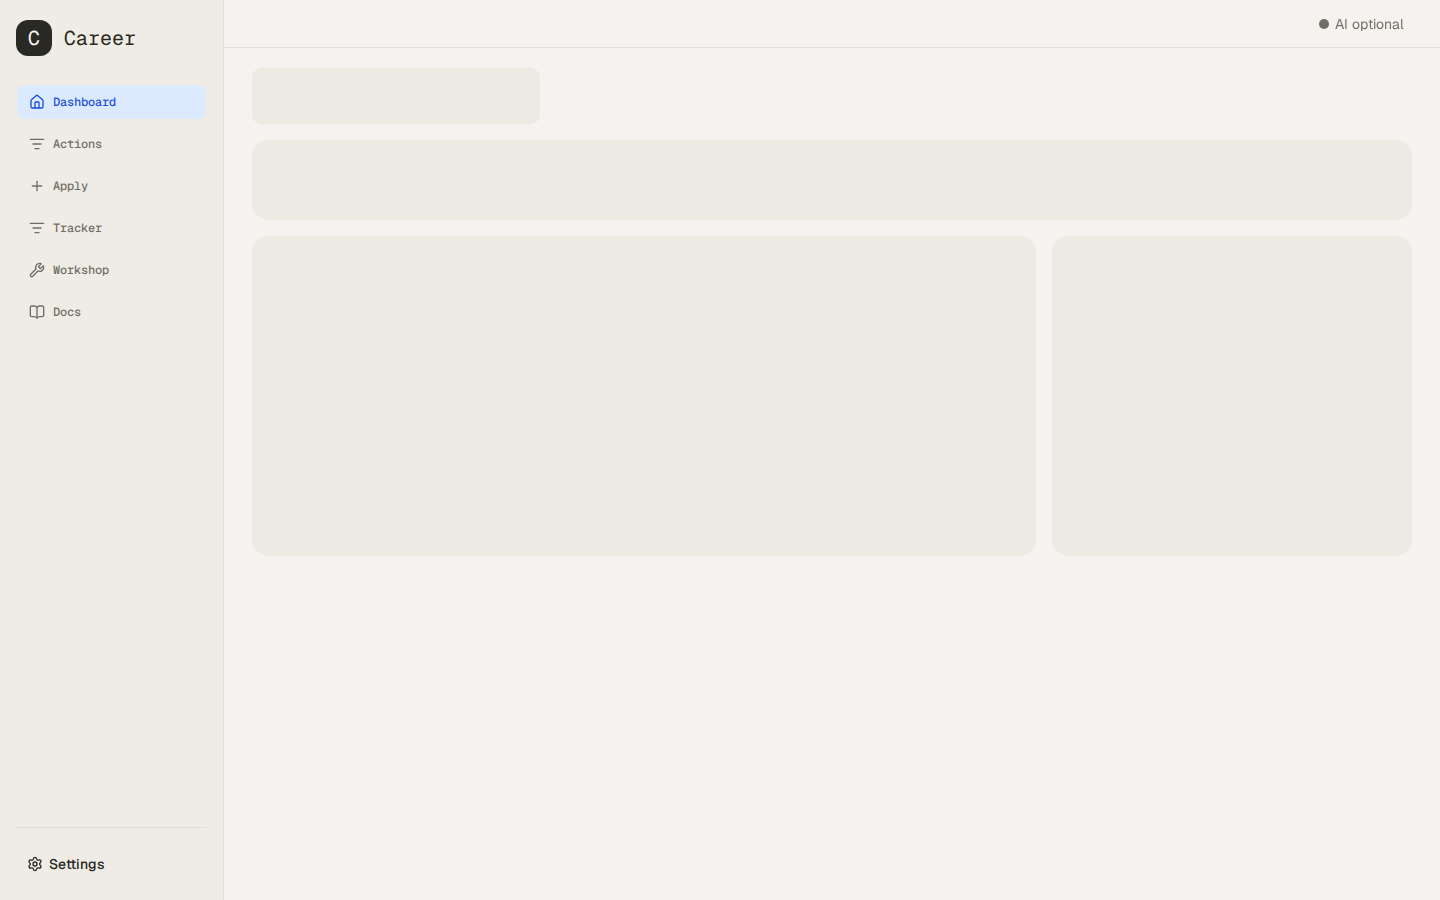
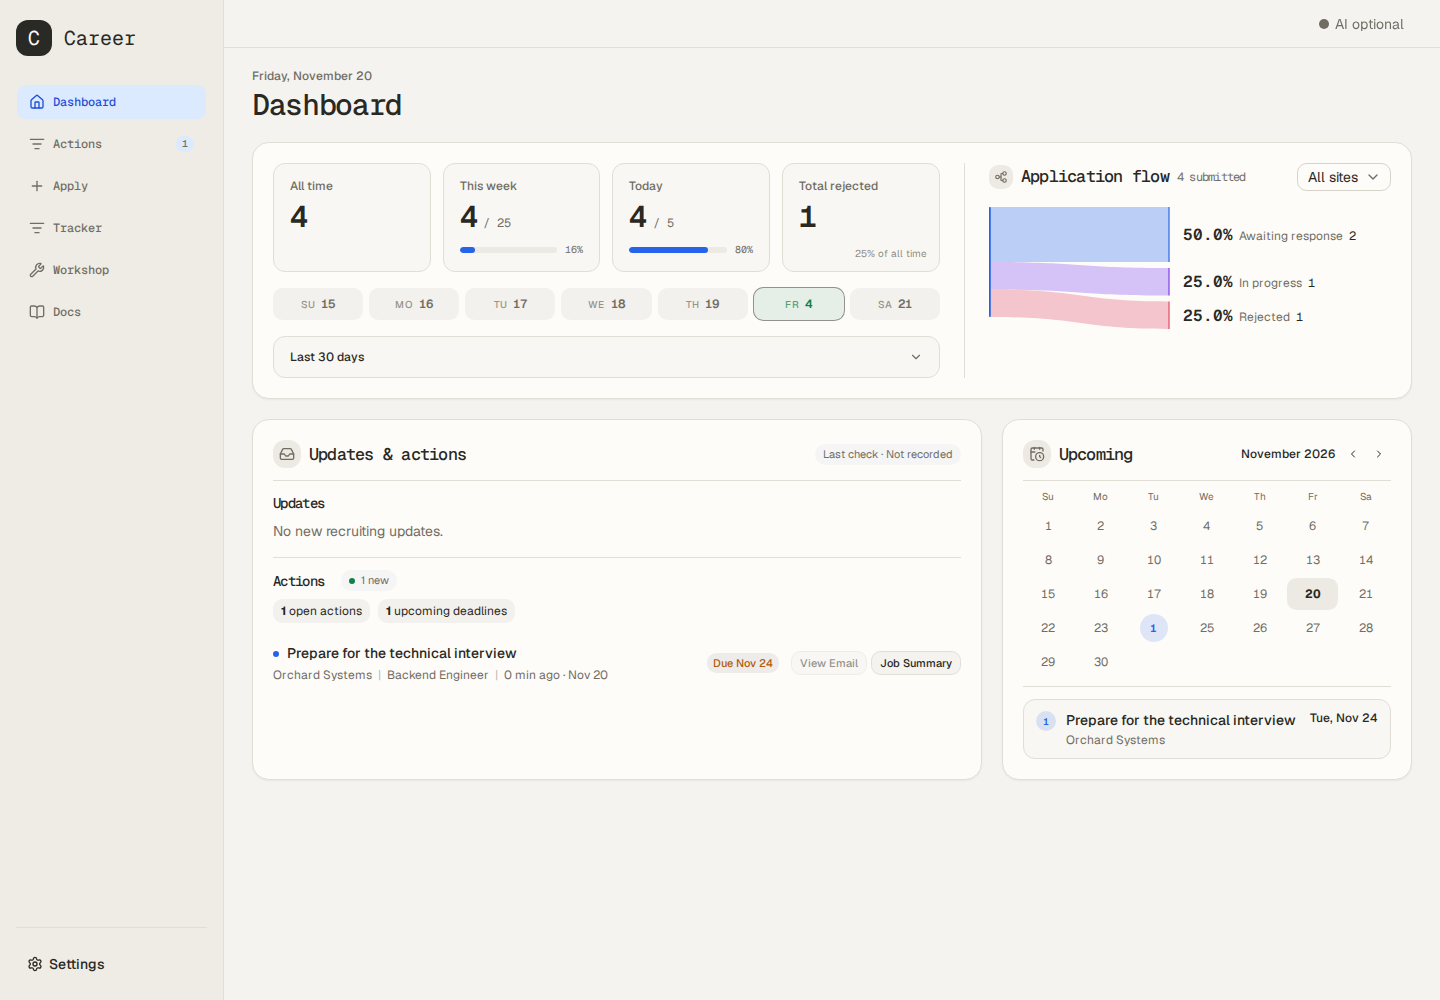
Add a README tour with fictional workspace screenshots

diff --git a/README.md b/README.md
@@ -4,7 +4,7 @@ A local app for organizing your job search, keeping track of applications and
 recruiting tasks, reviewing roles, and saving career notes. Start with an empty
 workspace and add your own data.
 
-![Dashboard showing example application activity](docs/screenshots/dashboard.png)
+![Dashboard with application counts, an application flow chart, updates and upcoming deadlines](docs/screenshots/dashboard.png)
 
 ## Quick start
 
@@ -122,7 +122,57 @@ optional extra versions. Resume and PDF tools need Python, TeX Live and Poppler
    Search by title. Text notes are editable, and PDFs can be opened or
    downloaded. Imports are copied into your local library.
 
-![Quick Add on the Apply screen](docs/screenshots/apply.png)
+## A tour of the app
+
+The screenshots show a fictional workspace. Your workspace starts empty.
+
+### Apply: Quick add and Review
+
+**Quick add** takes pasted job descriptions and logs them as applied today, up to
+50 per batch. History on the right lists summaries, reviews, jobs to apply to and
+jobs in progress.
+
+![Apply page with Quick add, the Review and Questions tabs, and History](docs/screenshots/apply-quick-add.png)
+
+**Review** scores a job before you apply. **Fit** compares your career profile
+with the role, and **Resume Match** compares your resume with it. The card also
+shows the verdict, why you fit, the main gaps, whether to use your master resume
+or tailor it, and which keywords are on or missing from your resume. From there
+you can ask about the review or draft application answers and a cover letter.
+
+![A job review with Fit and Resume Match scores, gaps and keywords](docs/screenshots/review.png)
+
+### Tracker and Actions
+
+**Tracker** lists every application with search, filters, sorting and status
+counts. Change a status in place, or open the review and timeline for a job.
+
+![Tracker table with status counts, search and filters](docs/screenshots/tracker.png)
+
+**Actions** collects follow-ups such as assessments and interviews, with due dates,
+links to the job summary and timeline, and Mark Completed or Dismiss.
+
+![Actions page with open assessments and due dates](docs/screenshots/actions.png)
+
+### Workshop
+
+**Workshop** keeps project ideas and projects together. Focus shows what you are
+working on now, with task progress and links.
+
+![Workshop Focus view with projects, ideas and task progress](docs/screenshots/workshop.png)
+
+Each project has tasks, docs and links on its **Overview** tab.
+
+![A project's Overview tab with a description and task list](docs/screenshots/workshop-project.png)
+
+The **Dev** tab shows the project's Git status, branches and commits, and can run
+its dev server or open it in VS Code. It acts only inside the project's own linked folder.
+
+![A project's Dev tab with Git status, branches and Run locally](docs/screenshots/workshop-dev.png)
+
+### Docs
+
+**Docs** is a local library for Markdown notes and PDFs, such as an interview checklist.
 
 ![Docs library with a Markdown interview checklist](docs/screenshots/docs.png)
 
